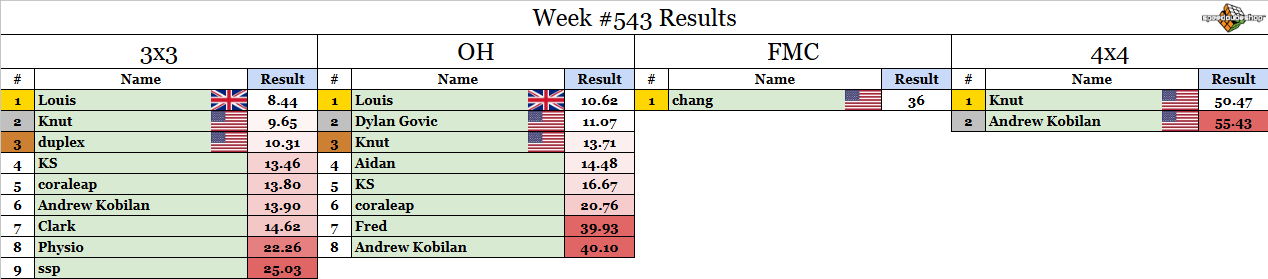
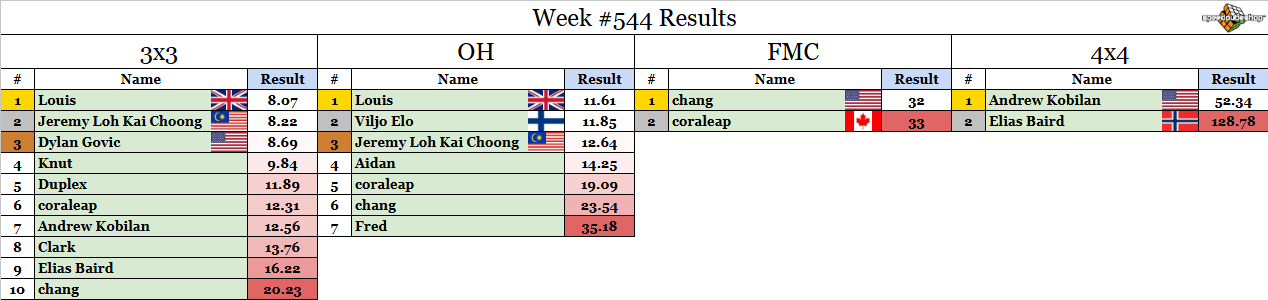
weekly comp update

Changed region(s): [[0.0, 0.0, 1.0, 1.0]]

diff --git a/src/weeklycomp/post.md b/src/weeklycomp/post.md
@@ -1,9 +1,9 @@
-## Weekly Competition #544 
+## Weekly Competition #545 
  
  This weekly competition is proudly sponsored by SpeedCubeShop.com 
  One competitor will be selected at random to receive a $5 SCS gift card! 
  
- Congrats to last week's winner by a random draw: **KS**. DM me for the prize. 
+ Congrats to last week's winner by a random draw: **Clark**. DM me for the prize. 
  
  Check whether or not you participated this week yet at [https://bit.ly/RMSWeeklyCompSummary](https://bit.ly/RMSWeeklyCompSummary)  
  
@@ -17,29 +17,30 @@
  7. The comp runs until Sunday 5pm Eastern time (more or less). Enter your times using the forms links below. 
  
 ### 3x3: [Submission Form](https://forms.gle/H5xoCWvGKnZ92fQt8) 
- 1. D2 F2 U2 F2 R F U' D R B2 U2 F2 U2 R' F2 R2 L' U2 L U' 
- 2. R2 U L' U R F L' R2 F2 L2 D L2 U2 R2 L2 D' F2 D2 L D 
- 3. R L' F L U2 B U' D' B' D2 R U2 D2 F2 R2 L F2 R U2 L' U2 
- 4. B2 U R' F' U D R F' U D2 R' F2 R2 D2 F2 L U2 D2 L2 B2 
- 5. D2 R2 F2 R' B2 L F2 U2 R B2 D2 R D R B R B' F L' B F 
+ 1. R D' U2 R2 F' U2 B2 U2 B2 R2 D2 U2 F' D2 R' F2 R' F2 D R' U2 
+ 2. B U2 L D F2 D2 B2 F2 D' R2 D' U' R B D B2 U2 L D' 
+ 3. F' U2 L2 F2 R2 F U2 R2 D2 B2 L2 U R2 F L' F R2 D' U2 F' 
+ 4. D2 U2 F U2 B R2 F R2 F' L2 D2 F' D' F2 L B' L R' B2 F' D 
+ 5. R2 U B2 D L2 U F2 L2 R2 D' B2 L' R' U' B F R U2 R2 U 
  
 ### OH: [Submission Form](https://forms.gle/UgRLW3K1d5KkMGfM9) 
- 1. U2 B R2 B' R2 B D2 U2 B U2 R D L' D' B' U2 B' F' U2 R' 
- 2. F2 R2 B U2 B' D2 F L2 D2 U2 B' U' B U2 L2 B' D' R U' F U2 
- 3. U F U2 F L2 R2 F2 R2 U2 B D2 L2 F2 L F' U' F L2 R' D' 
- 4. R' U2 F' U2 L2 D2 L2 F2 D' B2 U F2 U' F L D F2 U F' R 
- 5. D F2 U B2 D R2 F2 U2 F2 R2 D F' U L' R' U' R2 D B' U R' 
+ 1. D B L2 D R2 D B' L F2 R U2 B2 L F2 L2 U2 F2 B2 L D' R2 
+ 2. U2 F' B D2 F2 L' D B2 L D2 F' R2 B' U2 R2 D2 R2 F' B2 L2 
+ 3. L2 D2 F2 D L2 B2 U2 B2 R U F' L2 B2 F' U B U' F' 
+ 4. B U' B2 F2 D L2 D B2 D' R2 D R D' U2 R2 F' U B2 R U2 
+ 5. F' L B' U' F2 U' D L' D L2 U2 D L2 U2 R2 L2 F2 L 
  
 ### FMC: [Submission Form](https://forms.gle/1P9VUgZmA1pibwvL9) 
- 1. R' U' F U2 B U2 R2 B2 R U' B R' B R2 U2 R2 F' L2 D2 F' R2 L2 U2 B2 R' U' F 
+ 1. R' U' F B2 L F' B' L2 B' D' R B' U2 D2 B2 D2 L2 F' L2 B2 U' R' U' F 
  
 ### 4x4: [Submission Form](https://forms.gle/bHNjncvEcPvFWBP2A) 
- 1. D B2 U' F2 R2 U B2 D B2 D L2 F R' U2 L' F2 U2 D' L B R' Uw2 Rw2 B' U R2 D Rw2 Uw2 B U' F' Uw2 R Rw' B D L' Fw Rw' U' R' Uw' R' B' D2 
- 2. F U' B2 D2 R2 B' R2 L2 B D2 F' B' R' D2 R2 U' F B' R B Rw2 Uw2 F R2 D2 Fw2 Uw2 F L' F2 R L Uw L2 U' Fw2 R F2 Fw Rw' B D' Uw2 Fw Uw' 
- 3. L2 B2 R F2 R D2 F2 L' U2 L2 F U L D B' R' F R' F' U' Fw2 R Uw2 L2 U' R' Fw2 L' Fw2 U' D Fw2 D Fw R2 L F L Rw2 Fw Rw' U2 D Rw2 Uw' Fw 
- 4. R2 L B2 R2 F2 R' D2 R2 L D L B D B' D R U' F' Fw2 R' B2 Uw2 L2 D' Rw2 Fw2 L' U' B2 Rw2 U Fw' D2 Fw R' Rw' Fw U' L2 F Rw' F2 Fw2 
- 5. L D' F U' D' R' U2 R' B L2 D R2 D F2 R2 D' F2 U' L2 F2 D Rw2 Uw2 L' B2 Uw2 R' F' Uw2 R' B L' F2 R' Uw Rw2 D' F Rw2 Fw R U2 Rw' Uw B2 
+ 1. F U2 F' U2 D2 B R2 F2 B D2 L2 U' F2 U F' L' U L2 D' R' U' Uw2 F2 B R' Uw2 F' B' L2 Uw2 B' L' F' Uw F' U Uw Fw2 R2 L' Uw' Fw' Uw L2 Rw D2 
+ 2. D' L B2 D2 B2 R2 U2 B2 R2 U2 F' L' F2 R F' B R' U F Fw2 R' B2 Fw2 U' R F2 Rw2 U' B2 Uw2 Fw2 U2 Fw' R2 U R' Uw' B2 Rw F2 B2 L Fw R 
+ 3. U' L F R2 B' R2 F2 U2 F' D2 R2 B' D2 B R B' L2 U R2 B2 R2 Uw2 B' Uw2 B2 L2 Uw2 B' L U2 Uw2 R' L2 Uw' B' D' F D' Uw2 Rw U Uw Rw' B2 R' F' 
+ 4. U B L2 F B2 D2 B L2 U2 D2 F2 R2 L' U' D B2 R B' U' F2 Rw2 Fw2 R' U2 R Fw2 D' R2 Fw2 D R2 L2 B' Fw' U B Rw2 F2 Rw' F' Fw' R Rw' Fw Rw2 
+ 5. D2 L' F2 R D2 R' D2 F2 U2 L2 F2 R' U2 D' B R2 U2 B2 U2 L2 U' Fw2 U R' L' D Fw2 L2 U' Fw2 D' F2 D' Rw2 Fw R' L U L U2 Uw' Fw D2 B2 Fw2 D' Rw' 
  
 ### Winning FMC solutions from last week: 
- 1. chang, 36 moves: [SOLUTION](https://bit.ly/4m3P9CY)
+ 1. chang, 32 moves: [SOLUTION](https://bit.ly/47xrbLR) 
+ 2. coraleap, 33 moves: [SOLUTION](https://bit.ly/3HeoZhW) 
  
